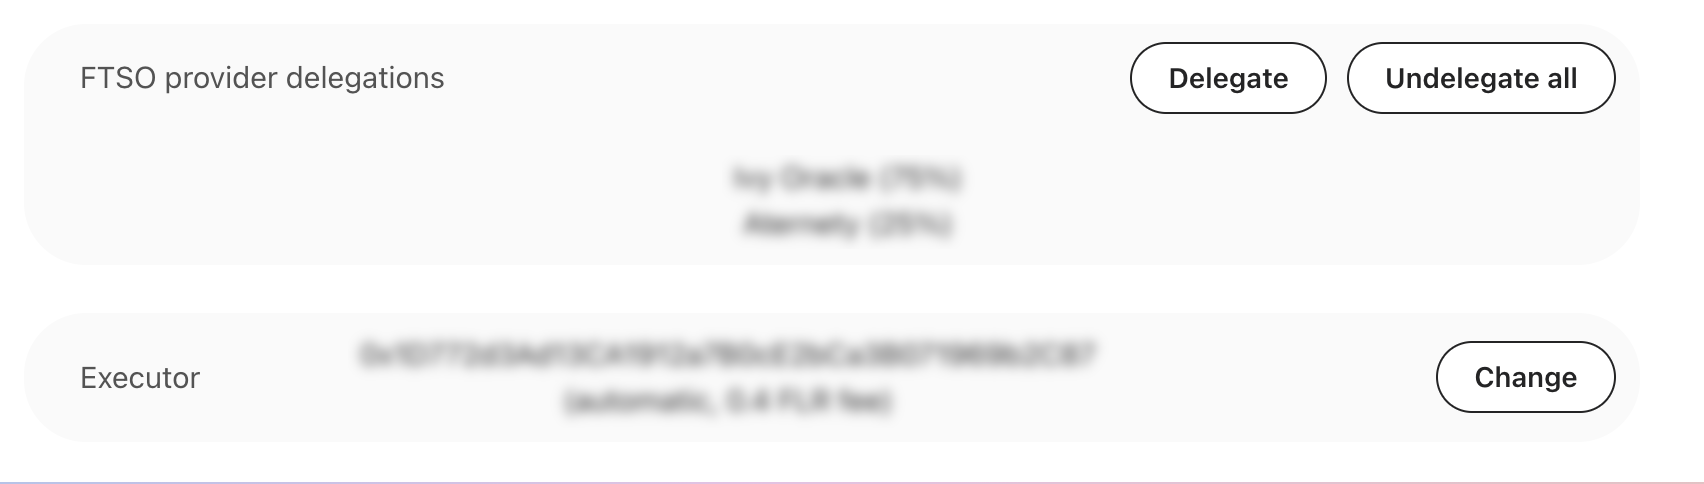
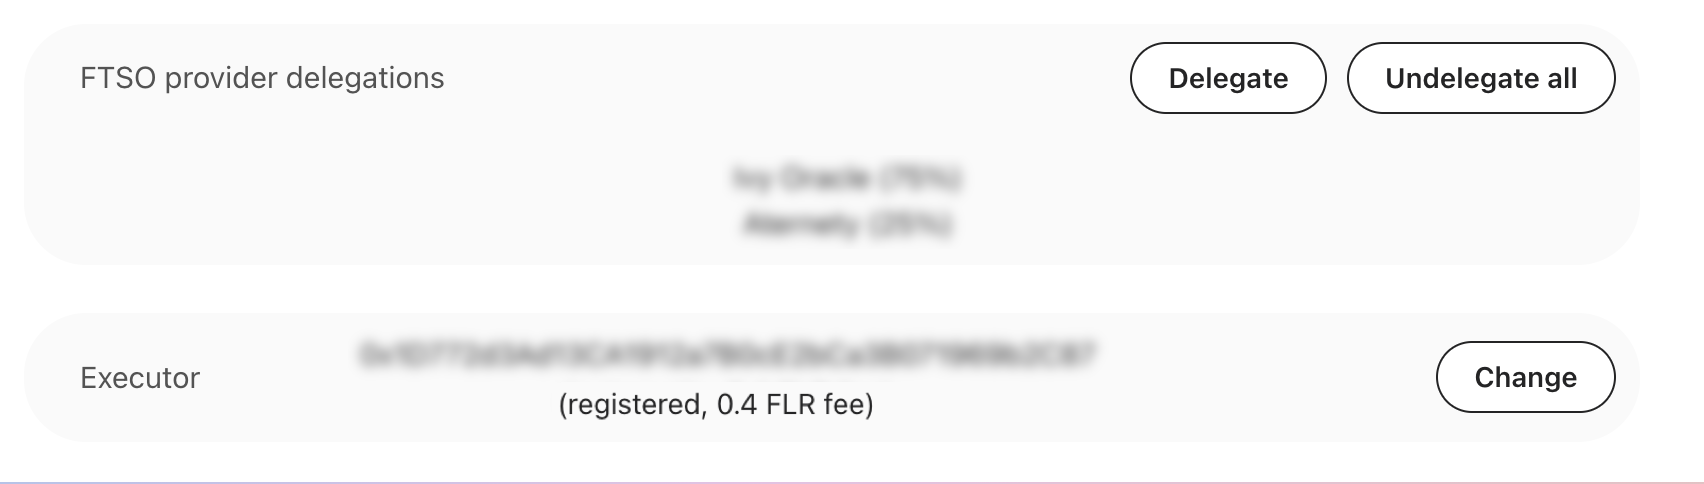
Update autoclaim user guide images (#230)

Changed region(s): [[0.311, 0.8058, 0.5288, 0.8678]]

diff --git a/docs/user/automatic-claiming.md b/docs/user/automatic-claiming.md
@@ -44,25 +44,38 @@ Now that you have your desired executor's address, you can set it as the executo
 1. Open the [Flare Portal](https://portal.flare.network/).
 2. Click **Connect to Wallet** and log into your wallet.
    The interface to your **Main Account** opens.
-3. In the **Executor** section, click **Add**.<!--Add an image when the UI is updated.-->
+    <figure markdown>
+    ![Flare Portal Main Account](executor-portal-main.png){ loading=lazy .allow-zoom }
+    <figcaption>Flare Portal Main Account interface.</figcaption>
+    </figure>
+3. In the **Executor** section, click **Add** or **Change**.
 4. Paste the executor's address.
     A message confirms the executor's fee, whether it is a registered executor, and whether rewards go to your Main Account or your [Personal Delegation Account (PDA)](../tech/personal-delegation-account.md).
-5. To set this executor, click **Confirm**.
     <figure markdown>
-    ![Set an executor](executor-portal-set.png){ loading=lazy .allow-zoom width=500px }
+    ![Set an executor](executor-portal-preset.png){ loading=lazy .allow-zoom width=400px }
     <figcaption>Set an executor.</figcaption>
     </figure>
-    <!--Add a new image when they change the name "automatic" to "registered."-->
+5. To set this executor, click **Confirm**.
    Your wallet opens with the details of the transaction.
 6. Review the transaction and confirm it.
 
-If you confirm the executor, the Flare Portal displays the executor address you have selected, whether it is registered, and it's fee.
-There is also a **Change** button that enables you to remove or change the executor any time you choose.
+If you confirm the executor, the Flare Portal displays the executor address you have selected, whether it is registered, and its fee.
+Note also that the **Add** button now reads **Change**, enabling you to remove or change the executor any time you choose.
 <figure markdown>
 ![The executor is confirmed](executor-portal-confirmed.png){ loading=lazy .allow-zoom }
 <figcaption>The executor is confirmed.</figcaption>
 </figure>
-<!--Needs a new image when they change the name "automatic" to "registered."-->
+
+!!! note "Reward must be high enough to pay the executor's fee"
+
+    If the reward amount is too low to accommodate the fee, automatic claims won't occur, so you may see small amounts of unclaimed rewards even if you have autoclaiming set up.
+
+## Disabling Automatic Claiming
+
+To disable automatic claiming and stop paying the executor fees, go through the above process again and clear the Executor address field in Step 4.
+This is, confirm an empty address.
+
+Once you confirm the transaction in your wallet, automatic claiming will be disabled.
 
 ## Checking for Accrued Rewards
 
@@ -70,8 +83,8 @@ To check if you have accrued rewards, go to the [Flare Portal](https://portal.fl
 
 1. Click **Connect to Wallet** and log into your wallet.
 2. Select your **Main Account** or **Delegation Account**, if you have enabled a PDA.
-3. At the bottom of the screen, see the **Claim _x_ FLR** button, where _x_ is the number of `$FLR` rewards you have.
+3. At the bottom of the screen, see the **Claim _x_ FLR** button, where _x_ is the number of `$FLR` rewards you can claim.
 
-!!! note "Reward must be high enough to pay the executor's fee"
+!!! note
 
-    If the reward amount is too low to accommodate the fee, automatic claims won't occur, so you may see small amounts of unclaimed rewards even if you have autoclaiming set up.
+    If the configured executor is doing its job correctly, you should never see any pending rewards.
